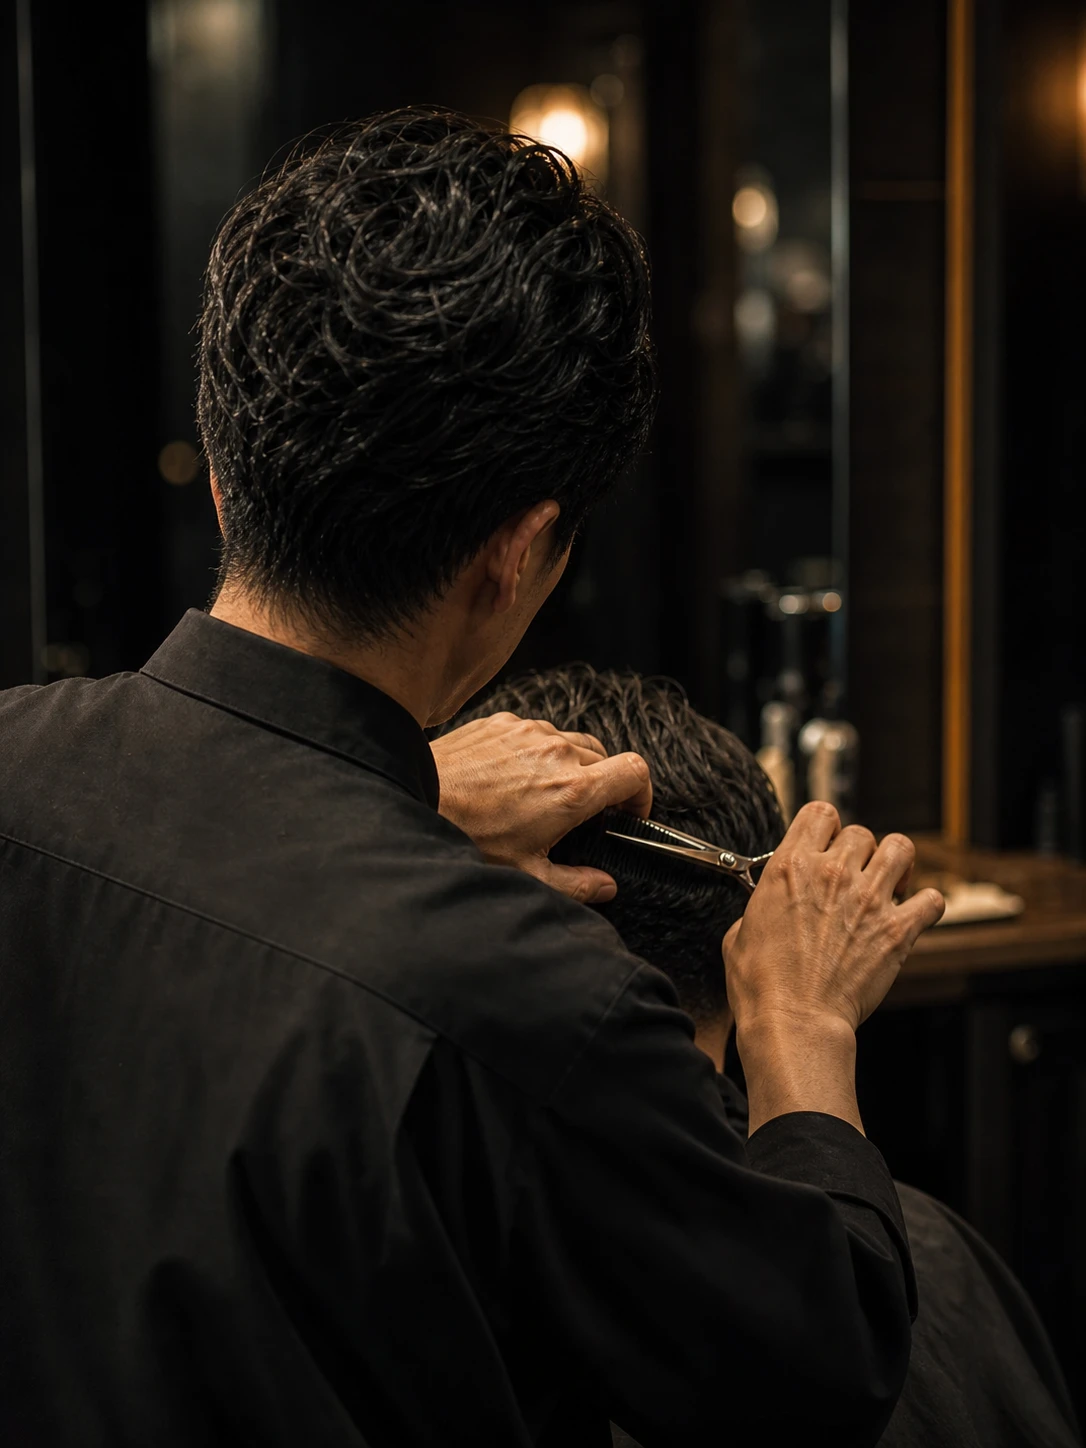
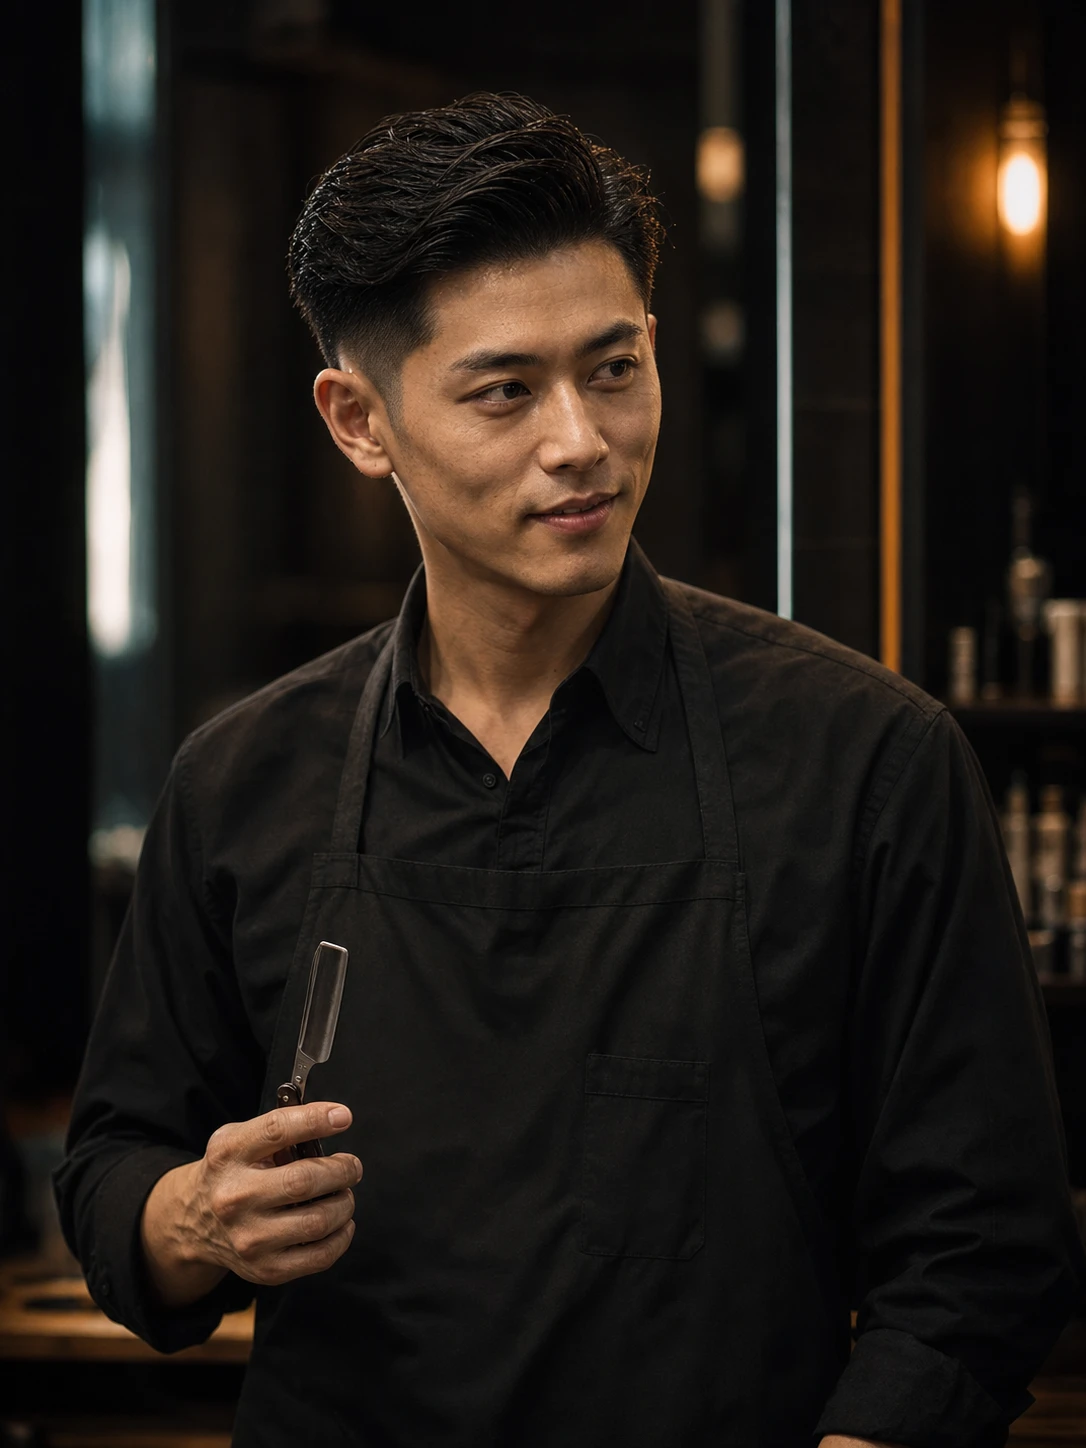
v3 スタッフ写真を正面構図に変更

diff --git a/index.html b/index.html
@@ -1370,19 +1370,19 @@
         </div>
         <div class="staff-grid">
           <article class="staff-card fade-in">
-            <img src="assets/staff-kaito.webp" alt="施術中の海斗の後ろ姿" width="720" height="900" loading="lazy">
+            <img src="assets/staff-kaito.webp" alt="腕組みの海斗の正面構図" width="720" height="900" loading="lazy">
             <div class="staff-role" lang="en">Master Barber</div>
             <h3 class="staff-name">志村 海斗</h3>
             <p class="staff-copy">20年の経験で培った技術と、一人ひとりの骨格に合わせたカットを提供する。短髪ほど誤魔化しは利かないから、細部まで切り込む。</p>
           </article>
           <article class="staff-card fade-in">
-            <img src="assets/staff-ren.webp" alt="クリッパー施術中の横顔" width="720" height="900" loading="lazy">
+            <img src="assets/staff-ren.webp" alt="蓮の斜め正面構図" width="720" height="900" loading="lazy">
             <div class="staff-role" lang="en">Senior Barber</div>
             <h3 class="staff-name">松永 蓮</h3>
             <p class="staff-copy">クラシックからモダンまで、あなたのライフスタイルに合うスタイルを仕上げる。再現しやすい質感まで計算して、朝のセット時間を削る。</p>
           </article>
           <article class="staff-card fade-in">
-            <img src="assets/staff-sota.webp" alt="ラザーを塗る施術の手元" width="720" height="900" loading="lazy">
+            <img src="assets/staff-sota.webp" alt="颯太の剃刀を持つ正面構図" width="720" height="900" loading="lazy">
             <div class="staff-role" lang="en">Barber</div>
             <h3 class="staff-name">黒川 颯太</h3>
             <p class="staff-copy">丁寧なシェービングと、長く続く清潔感のあるカットが信条だ。店を出た直後ではなく、次に切る日まで印象が崩れにくい仕上がりを追う。</p>

diff --git a/prompts/forge-images.md b/prompts/forge-images.md
@@ -1,0 +1,73 @@
+# FORGE デモサイト画像生成指示書
+
+## 共通ルール
+- すべて写実的なAI生成写真（イラストNG）
+- ダーク・ヴィンテージ・男性的。レンガ・木・革の素材感
+- 理容室らしい重厚感を出し、美容室と明確に差別化する
+- 人物は20-40代の日本人男性。短髪・清潔感
+- テキスト・ロゴ・看板文字は入れない
+- 各画像を指定ファイル名で images/ に保存すること
+
+## 画像一覧（18枚）
+
+### hero / background（2枚）
+- ファイル名: images/hero.webp
+- サイズ: 最大サイズで生成
+- プロンプト: A dark vintage Japanese barbershop interior with brick walls, warm tungsten lighting, leather barber chairs, wood counters, mirrors, and refined masculine atmosphere. Cinematic depth, no text, no logos, no visible signage lettering.
+
+- ファイル名: images/cta-night.webp
+- サイズ: 最大サイズで生成
+- プロンプト: Nighttime exterior and window view of a premium Japanese barbershop with warm interior glow, brick and wood textures, moody masculine atmosphere, no readable signs, no text, no logos.
+
+### features（3枚）
+- ファイル名: images/feature-fade-cut.webp
+- プロンプト: Close-up of a Japanese barber performing a precise fade cut with clippers. Side angle from behind the client, sharp gradient, dark barbershop background. No face clearly visible. No text, no logos.
+
+- ファイル名: images/feature-shaving.webp
+- プロンプト: Traditional shaving scene in a Japanese barbershop. Straight razor, warm towel, barber's hands and client's side profile only, heavy and refined lighting. No text, no logos.
+
+- ファイル名: images/feature-private-space.webp
+- プロンプト: Quiet private barber booth with leather chair, mirrors, brick wall, warm spotlights, wood details, and a focused masculine atmosphere. No people. No text, no logos.
+
+### gallery（4枚）
+- ファイル名: images/gallery-skin-fade.webp
+- プロンプト: Back and side view of a Japanese man with a sharp skin fade haircut inside a vintage barbershop. Crisp neckline, masculine styling, dark moody background. No front face. No text, no logos.
+
+- ファイル名: images/gallery-classic.webp
+- プロンプト: Side profile of a Japanese man with a classic slicked-back barber style, clean lines and natural shine, photographed inside a dark premium barbershop. No front face. No text, no logos.
+
+- ファイル名: images/gallery-taper.webp
+- プロンプト: Back view of a Japanese man with a taper fade haircut in a masculine barbershop setting. Detailed blend around ears and neckline, warm dark lighting. No face visible. No text, no logos.
+
+- ファイル名: images/gallery-shave-line.webp
+- プロンプト: Close-up side view of a clean barber shave line around cheek and beard area, precise razor detailing in a dark vintage barbershop. No full face. No text, no logos.
+
+### staff（3枚）
+- ファイル名: images/staff-kaito.webp
+- プロンプト: Side-profile portrait of a Japanese male master barber in his late 30s working near a leather barber chair. Short hair, white shirt, dark apron, warm masculine lighting. No front-facing portrait. No text, no logos.
+
+- ファイル名: images/staff-ren.webp
+- プロンプト: Side-profile portrait of a Japanese male senior barber in his 30s adjusting tools at a wooden counter. Short hair, clean appearance, dark vintage barbershop background. No front-facing portrait. No text, no logos.
+
+- ファイル名: images/staff-sota.webp
+- プロンプト: Side-profile portrait of a Japanese male barber in his 20s preparing for a shave service in a moody barbershop interior. Crisp short haircut, dark apron, no front-facing pose. No text, no logos.
+
+### photo（4枚）
+- ファイル名: images/photo-interior.webp
+- プロンプト: Wide shot of a premium Japanese barbershop interior with brick walls, leather chairs, vintage mirrors, wood counters, and warm spotlighting. No people. No text, no logos.
+
+- ファイル名: images/photo-chair.webp
+- プロンプト: Close-up of a classic leather barber chair with metal details in a dark vintage Japanese barbershop. Strong texture and craftsmanship focus. No people. No text, no logos.
+
+- ファイル名: images/photo-tools.webp
+- プロンプト: Neatly arranged barber tools on a wooden counter: scissors, clippers, combs, straight razor, shaving brush. Moody masculine lighting. No text, no logos.
+
+- ファイル名: images/photo-counter.webp
+- プロンプト: Barbershop counter with grooming products, mirror reflection, warm tungsten light, wood and metal textures, premium masculine atmosphere. No readable labels. No text, no logos.
+
+### exterior / access（2枚）
+- ファイル名: images/access-exterior.webp
+- プロンプト: Exterior entrance of a Japanese vintage barbershop on an urban street at dusk. Brick facade, discreet lighting, heavy wooden door, no readable sign text. No logos.
+
+- ファイル名: images/detail-exterior-night.webp
+- プロンプト: Night street view of a refined Japanese barbershop storefront with warm glow through windows, masculine and quiet atmosphere, brick and wood details. No readable sign text. No logos.